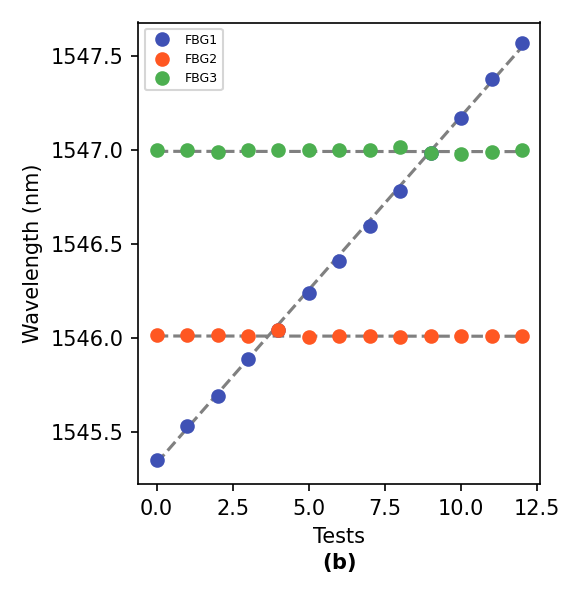
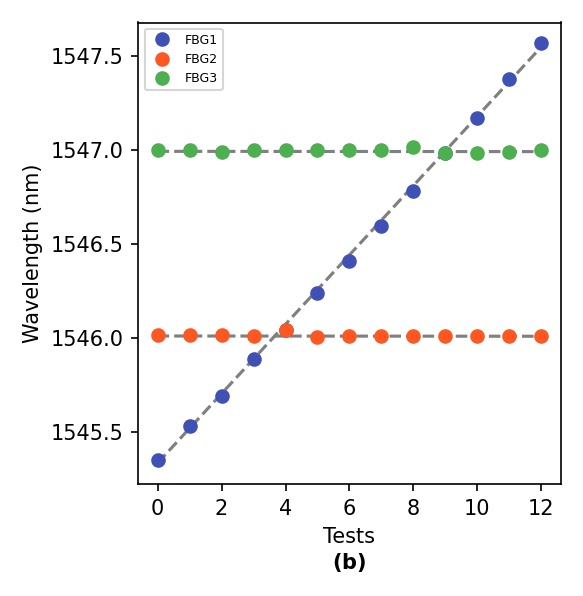
3fbg

diff --git a/DE_general_test.py b/DE_general_test.py
@@ -1,3 +1,4 @@
+import matplotlib.pyplot as plt
 from cycler import cycler
 default_cycler = (cycler(color=[
     '#3f51b5',
@@ -10,9 +11,13 @@ default_cycler = (cycler(color=[
 import matplotlib as mpl
 mpl.rcParams['axes.prop_cycle'] = default_cycler
 
+
+from matplotlib.ticker import MaxNLocator
+
+#...
+
 # ---------------
 
-import matplotlib.pyplot as plt
 import os
 os.environ["CUDA_VISIBLE_DEVICES"] = "-1"
 
@@ -21,7 +26,8 @@ from Solution.DE_general import DE, spectra_diff_contrast, spectra_diff_absolute
 from Dataset.Simulation.GaussCurve_TF import FBG_spectra, GaussCurve
 
 # DATASET!!!!!!!!!!!!!
-from Dataset.loader import DATASET_7fbg_1 as Dataset
+from Dataset.loader import DATASET_3fbg_1_2 as Dataset
+# from Dataset.loader import DATASET_7fbg_1 as Dataset
 from Dataset.loader import DATASET_background
 from Dataset import Resampler
 
@@ -37,9 +43,9 @@ from AutoFitAnswer import Get3FBGAnswer
 print('loading dataset')
 # [:,:,948-76:1269-76]
 
-dataset = Dataset()[0]
-# dataset = Dataset()
-fbgs=7
+# dataset = Dataset()[0]
+dataset = Dataset()
+fbgs=3
 
 
 
@@ -50,7 +56,7 @@ newDataset = []
 for data in dataset:
     newDataset.append(np.array([
             data[0],
-            data[1] #/ background
+            data[1] / background
         ]))
 
 ymax = np.max(newDataset[0][1])
@@ -58,8 +64,8 @@ ymin = np.min(newDataset[0][1])
 threshold = (ymax-ymin)*0.1+ymin
 
 
-dataset, answer, peaks = Resampler.Resample((newDataset, Dataset()[1]), fbgs, 1, 1000, threshold)
-# dataset, answer, peaks = Resampler.Resample(newDataset, fbgs, 1, 1000, threshold)
+# dataset, answer, peaks = Resampler.Resample((newDataset, Dataset()[1]), fbgs, 1, 1000, threshold)
+dataset, answer, peaks = Resampler.Resample(newDataset, fbgs, 1, 1000, threshold)
 
 print(dataset.shape)
 
@@ -126,9 +132,12 @@ def evaluateData(data):
 
     # plt.twinx()
     # plt.plot(err_log)
-    plt.legend(fontsize=6, ncol=2)
-    plt.xlabel("Tests\n"+ r"$\bf{(d)}$")
+    plt.legend(fontsize=6)
+    # plt.legend(fontsize=6, ncol=2)
+    plt.xlabel("Tests\n"+ r"$\bf{(b)}$")
     plt.ylabel("Wavelength (nm)")
+    plt.gca().xaxis.set_major_locator(MaxNLocator(integer=True))
+
     plt.tight_layout()
     plt.pause(0.01)
     return X
